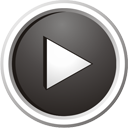
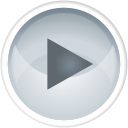
refine video buttons

diff --git a/src/ImageReader.java b/src/ImageReader.java
@@ -10,6 +10,7 @@ import java.io.FileNotFoundException;
 import java.io.IOException;
 import java.io.InputStream;
 import java.util.ArrayList;
+import java.util.HashMap;
 
 import javax.imageio.ImageIO;
 import javax.swing.ImageIcon;
@@ -22,11 +23,12 @@ public class ImageReader {
 	public static final int WIDTH = MyApplication.IMAGE_WIDTH;
 	public static final int HEIGHT = MyApplication.IMAGE_HEIGHT;
 	public static final String VIDEO_LABEL_PLAY = "./src/play.png";
+	public static final String VIDEO_LABEL_PAUSE = "./src/pause.png";
+	public static final float FULL_SIZE = 1.0f;
 	
 	static int SIZE = HEIGHT * WIDTH;
-	private static Image videoLabelPlay = null;
-	private static int videoLabelPlayX = 0;
-	private static int videoLabelPlayY = 0;
+	private static HashMap<String, Image> videoLabel = new HashMap<String, Image>();
+	
 
 	
 	
@@ -53,33 +55,39 @@ public class ImageReader {
 		return result;
 	}
 	
-	public static BufferedImage addVideoLabel(Image image, int offsetX, int offsetY, float factor){
-		if(videoLabelPlay == null){
+	public static BufferedImage addVideoLabel(Image image, String label, int offsetX, int offsetY, float factor){
+		Image videoLabelImage = null;
+		if(!videoLabel.containsKey(label)){
 			try {
-			    videoLabelPlay = ImageIO.read(new File(VIDEO_LABEL_PLAY));
+				videoLabelImage= ImageIO.read(new File(label));
+				videoLabel.put(label, videoLabelImage);
 			} catch (IOException e) {
 				e.printStackTrace();
 			}
-			int h = videoLabelPlay.getHeight(null);
-			int w = videoLabelPlay.getWidth(null);
-			int H = image.getHeight(null);
-			int W = image.getWidth(null);
-			videoLabelPlayX = (W-w)/2;
-			videoLabelPlayY = (H-h)/2;
+			
 		}
+		else{
+			videoLabelImage = videoLabel.get(label);
+		}
+		int h = videoLabelImage.getHeight(null);
+		int w = videoLabelImage.getWidth(null);
+		int H = image.getHeight(null);
+		int W = image.getWidth(null);
+		int videoLabelPlayX = (W-w)/2;
+		int videoLabelPlayY = (H-h)/2;
 		int x = (int) (videoLabelPlayX*factor);
 		int y = (int) (videoLabelPlayY*factor);
-		int w = (int) (videoLabelPlay.getWidth(null)*factor);
-		int h = (int) (videoLabelPlay.getHeight(null)*factor);
-		Image tmpLabelPlay = videoLabelPlay;
+		w = (int) (videoLabelImage.getWidth(null)*factor);
+		h = (int) (videoLabelImage.getHeight(null)*factor);
+		Image tmpLabelImage = videoLabelImage;
 		if(x != videoLabelPlayX){
-			tmpLabelPlay = videoLabelPlay.getScaledInstance(w, h, Image.SCALE_DEFAULT);
+			tmpLabelImage = videoLabelImage.getScaledInstance(w, h, Image.SCALE_DEFAULT);
 		}
 		 
 		BufferedImage result = new BufferedImage(image.getWidth(null), image.getHeight(null), BufferedImage.TYPE_INT_ARGB);
 		Graphics2D g2 = result.createGraphics();
 		g2.drawImage(image, 0, 0, null);
-		g2.drawImage(tmpLabelPlay, x+offsetX,y+offsetY, null);
+		g2.drawImage(tmpLabelImage, x+offsetX,y+offsetY, null);
 		
 		return result;
 	}
@@ -175,7 +183,7 @@ public class ImageReader {
 				}
 				
 				if(isVideo(filename)){
-					result = addVideoLabel(result, offsetX, offsetY, factor);
+					result = addVideoLabel(result, VIDEO_LABEL_PLAY, offsetX, offsetY, factor);
 				}
 				
 				
@@ -207,7 +215,7 @@ public class ImageReader {
 	public static ImageIcon readImage(String filename, int width, int height){
 		Image result = readVideo(filename, width, height, 1).get(0).getImage();
 		if(isVideo(filename)){
-			result = addVideoLabel(result, 0, 0, 1.0f);
+			result = addVideoLabel(result, VIDEO_LABEL_PLAY,0, 0, FULL_SIZE);
 		}
 		return new ImageIcon(result);
 	}

diff --git a/src/ImageIconMouseListener.java b/src/ImageIconMouseListener.java
@@ -52,6 +52,7 @@ public class ImageIconMouseListener extends MyMouseListener {
 				return;
 			}
 			if (player != null && player.isVideoSuspended()) {
+				this.label.setCurrentIcon(this.label.pauseIcon);
 				player.start();
 			} else if (player == null || player.isFinished()) {
 				player = VideoPlayer.acquireVideoPlayer(label, preview, video);
@@ -59,8 +60,10 @@ public class ImageIconMouseListener extends MyMouseListener {
 					MyApplication.videoCollageSeeker.display(video,
 							this.label.imageFile, player);
 				}
+				this.label.setCurrentIcon(this.label.pauseIcon);
 				player.start();
 			} else {
+				this.label.setCurrentIcon(this.label.solidIcon);
 				player.suspend();
 			}
 		}
@@ -69,12 +72,14 @@ public class ImageIconMouseListener extends MyMouseListener {
 
 	@Override
 	public void mouseEntered(MouseEvent e) {
-		if(ImageReader.isImage(this.label.imageFile)||this.video == null||this.player == null || this.player.isFinished()){
-			ImageReader.displayImage(this.fullIcon, this.preview);
-		}
-		else if (ImageReader.isVideo(this.label.imageFile) || player != null && player.isVideoSuspended()) {
-			ImageReader.displayImage(video.get(player.getFrameIndex()), this.preview);
-		}
+		if(!VideoPlayer.isPlaying()){
+			if(ImageReader.isImage(this.label.imageFile)||this.video == null||this.player == null || this.player.isFinished()){
+				ImageReader.displayImage(this.fullIcon, this.preview);
+			}
+			else if (ImageReader.isVideo(this.label.imageFile) || player != null && player.isVideoSuspended()) {
+				ImageReader.displayImage(video.get(player.getFrameIndex()), this.preview);
+			}
+		}		
 		super.mouseEntered(e);
 		
 	}

diff --git a/src/ImageLabel.java b/src/ImageLabel.java
@@ -1,15 +1,14 @@
-import java.awt.Graphics2D;
+import java.awt.Image;
 import java.awt.image.BufferedImage;
-import java.io.File;
-import java.io.IOException;
 
-import javax.imageio.ImageIO;
+import javax.swing.ImageIcon;
 import javax.swing.JLabel;
 
 
 public class ImageLabel extends MyLabel {
 	public JLabel preview;
 	public String imageFile;
+	public ImageIcon pauseIcon;
 	public ImageLabel(JLabel preview, String filename){
 		this.preview = preview;
 		this.setImage(filename);
@@ -20,7 +19,10 @@ public class ImageLabel extends MyLabel {
 		this.imageFile = image;
 		this.fullImage = (BufferedImage) ImageReader.readImage(image, MyApplication.IMAGE_WIDTH, MyApplication.IMAGE_HEIGHT).getImage();
 		makeIcons(fullImage);
-		this.setIcon(this.solidIcon);
+		if(ImageReader.isVideo(image)){
+			this.pauseIcon = new ImageIcon(ImageReader.addVideoLabel(fullImage, ImageReader.VIDEO_LABEL_PAUSE, 0, 0, ImageReader.FULL_SIZE).getScaledInstance(ICON_WIDTH, ICON_HEIGHT, Image.SCALE_DEFAULT));
+		}
+		this.setIcon(this.currentIcon);
 	}
 	
 	
@@ -31,6 +33,11 @@ public class ImageLabel extends MyLabel {
 	public static void main(String[] args) {
 		// TODO Auto-generated method stub
 
+	}
+
+	public void setCurrentIcon(ImageIcon icon) {
+		this.currentIcon = icon;
+		this.setIcon(icon);
 	}
 
 }

diff --git a/src/VideoPlayer.java b/src/VideoPlayer.java
@@ -53,6 +53,15 @@ public class VideoPlayer {
 		}
 	}
 	
+	public static boolean isPlaying(){
+		if(currentVideoPlayer == null){
+			return false;
+		}
+		else{
+			return !currentVideoPlayer.isFinished()&&!currentVideoPlayer.isVideoSuspended();
+		}
+	}
+	
 	public void start() {
 		if (display == null) {
 			display = new Thread(new Runnable(){
@@ -132,8 +141,8 @@ public class VideoPlayer {
 				return;
 			}
 		}
-		finished = true;
-		this.frameIndex = new AtomicInteger(0);
+		setFinished(true);
+		
 	}
 	
 	public void updatePreview(int frameIndex) {
@@ -169,6 +178,7 @@ public class VideoPlayer {
 
 	private void setFinished(boolean finished) {
 		this.finished = finished;
+		this.frameIndex = new AtomicInteger(0);
 	}
 
 	public static void main(String[] args) {

diff --git a/src/MyLabel.java b/src/MyLabel.java
@@ -11,6 +11,7 @@ public class MyLabel extends JLabel {
 	
 	public ImageIcon solidIcon;
 	public ImageIcon transIcon;
+	public ImageIcon currentIcon;
 	public BufferedImage fullImage;
 	
 	protected void makeIcons(Image image){
@@ -18,6 +19,7 @@ public class MyLabel extends JLabel {
 		//default
 		this.solidIcon = new ImageIcon(scaledImage);
 		this.transIcon = new ImageIcon(ImageReader.makeTransparent(scaledImage));
+		this.currentIcon = this.solidIcon;
 	}
 	/**
 	 * @param args

diff --git a/src/MyMouseListener.java b/src/MyMouseListener.java
@@ -46,7 +46,7 @@ public class MyMouseListener implements MouseListener {
 	
 	protected void lowlight(){
 //		this.label.setBorder(null);
-		this.label.setIcon((this.label.solidIcon));
+		this.label.setIcon((this.label.currentIcon));
 	}
 
 	/**
